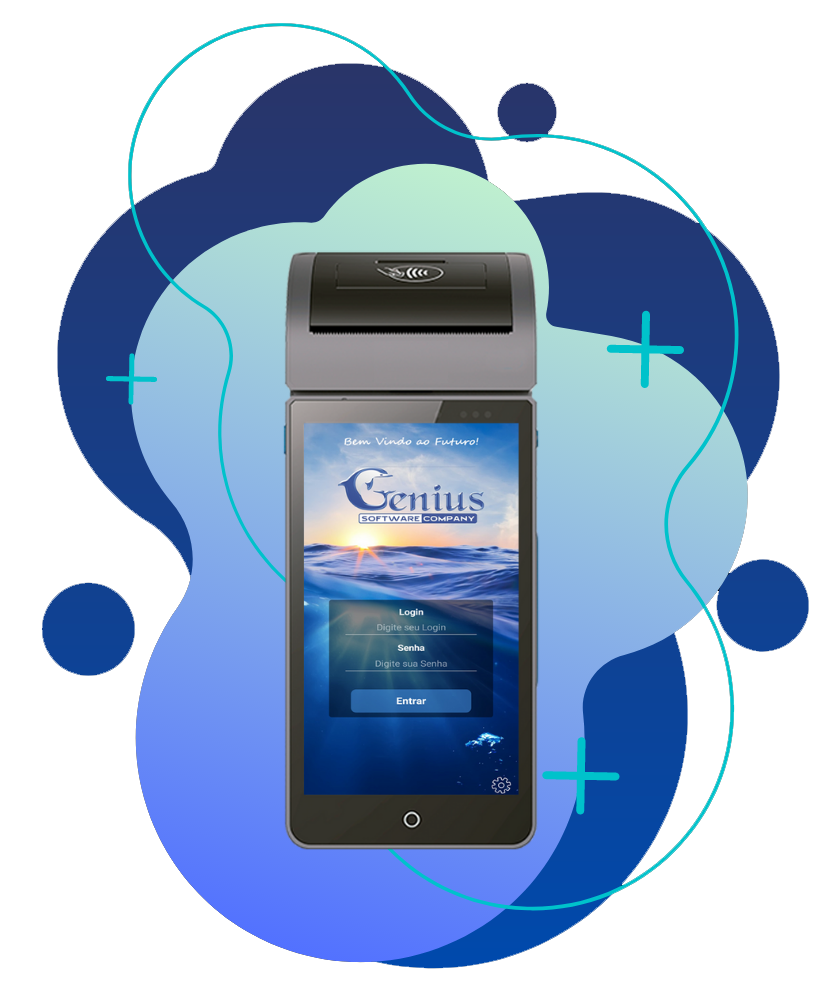
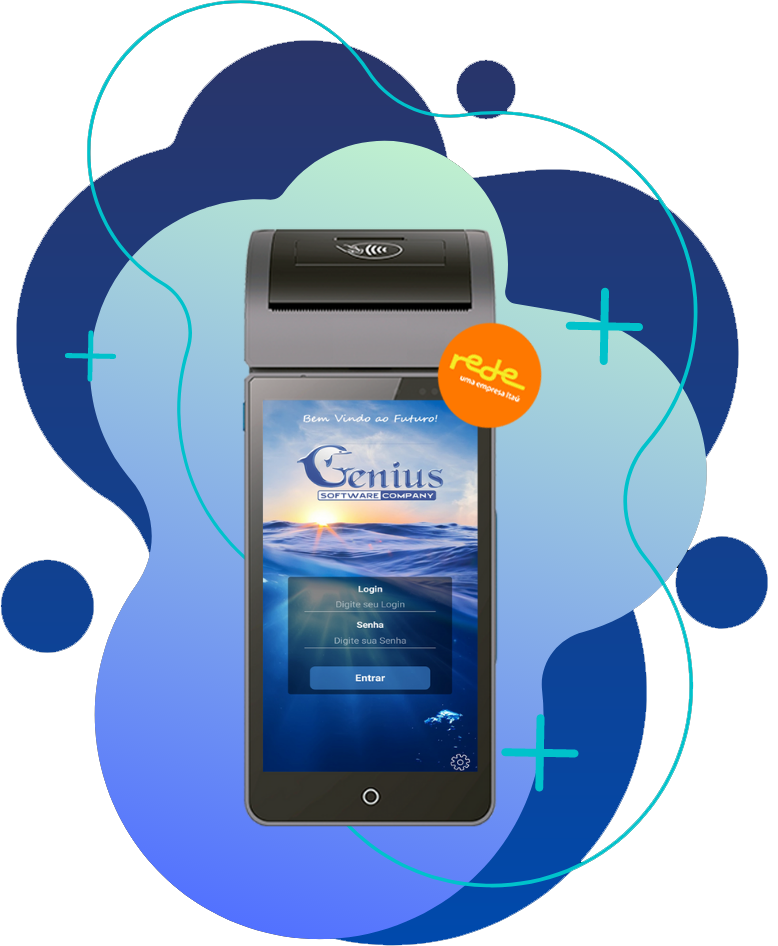
alterações

diff --git a/features.html b/features.html
@@ -63,7 +63,7 @@
                         <div class="col-xl-3 col-lg-3 d-none d-lg-block">
                             <div class="Appointment">
                                 <div class="book_btn d-none d-lg-block">
-                                    <a  href="#">Teste Grátis</a>
+                                    <a  href="#">Entre em contato</a>
                                 </div>
                             </div>
                         </div>  
@@ -105,7 +105,7 @@
                                        e precisas sobre sua empresa.
                                     </p>
                                     <div class="about_btn">
-                                        <a class="boxed-btn4" href="#">Teste Grátis</a>
+                                        <a class="boxed-btn4" href="#">Entre em Contato</a>
                                     </div>
                                 </div>
                             </div>
@@ -134,7 +134,7 @@
                                     </ul>
             
                                     <div class="about_btn wow fadeInUp" data-wow-duration=".10s" data-wow-delay=".8s" >
-                                        <a class="boxed-btn4" href="#">Teste Grátis</a>
+                                        <a class="boxed-btn4" href="#">Entre em Contato</a>
                                     </div>
                                 </div>
                             </div>
@@ -150,7 +150,7 @@
                                 <p>Contagem de estoque de maneira muito mais prática e rápida 100% automatica, tenha uma visão ampla de seus produtos
                                    quantidade de vendas e muito mais.</p>
                                 <div class="about_btn">
-                                    <a class="boxed-btn4" href="#">Teste Grátis</a>
+                                    <a class="boxed-btn4" href="#">Entre em Contato</a>
                                 </div>
                             </div>
                         </div>
@@ -190,22 +190,22 @@
                     <div class="col-lg-4 col-md-4">
                         <div class="single_service  wow fadeInUp" data-wow-duration=".5s" data-wow-delay=".3s">
                             <span>01</span>
-                            <h3>Faça  teste grátis</h3>
-                            <p>A genius pensa em você, e damos a oportunidade de você testar o nosso sistema de forma gratuita, sua satisfação e adaptação é importante para nós :)</p>
+                            <h3>Controle de tudo</h3>
+                            <p>Controle os princinpais movimentos de sua empresa, vendas, estoque e tudo mais. </p>
                         </div>
                     </div>
                     <div class="col-lg-4 col-md-4">
                         <div class="single_service  wow fadeInUp" data-wow-duration=".6s" data-wow-delay=".4s">
                             <span>02</span>
-                            <h3>Em qualquer lugar</h3>
-                            <p>Do home office ao escritório, trabalhe de onde estiver, ter o controle da sua empresa nunca foi tão facil.</p>
+                            <h3>Segurança</h3>
+                            <p>Nosso sistema é seguro e versátio ao uso de mais de um usuario atraves de senhas de segurança, ter o controle da sua empresa nunca foi tão facil.</p>
                         </div>
                     </div>
                     <div class="col-lg-4 col-md-4  wow fadeInUp" data-wow-duration=".7s" data-wow-delay=".5s">
                         <div class="single_service">
                             <span>03</span>
                             <h3>Relatórios com dados reais e precisos</h3>
-                            <p>A integração de todos os módulos automatiza relatórios para mostrar situação de todas as partes da gestão da empresa</p>
+                            <p>A integração de todos os módulos automatiza relatórios para mostrar situação de todas as partes da empresa.</p>
                         </div>
                     </div>
                 </div>
@@ -225,7 +225,7 @@
                 </div>
                 <div class="col-lg-4 col-md-5">
                     <div class="loan_btn wow fadeInUp" data-wow-duration="1.2s" data-wow-delay=".4s">
-                        <a class="boxed-btn3" href="apply.html">Teste Grátis</a>
+                        <a class="boxed-btn3" href="">Entre em Contato</a>
                     </div>
                 </div>
             </div>
@@ -286,7 +286,7 @@
                             <ul>
                                 <li><a href="#">Suporte </a></li>
                                 <li><a href="#">Planos</a></li>
-                                <li><a href="contact.html">Contato</a></li>
+                                <li><a href="contact.html">Contate a Genius</a></li>
                                 <li><a href="#">Parcerias </a></li>
                             </ul>
     

diff --git a/index.html b/index.html
@@ -148,8 +148,7 @@
                         <div class="col-xl-7 col-md-6">
                             <div class="slider_text">
                                 <h3 class="wow fadeInDown" data-wow-duration="1s" data-wow-delay=".1s"> <br><!--<img src="img/fontegenius.png" width="450" height="150" alt="">--></h3>
-                                <p class="wow fadeInLeft" data-wow-duration="1s" data-wow-delay=".1s">O Sistema de
-                                 gestão empresarial <br> completo para a sua empresa</p>
+                                <p class="wow fadeInLeft" data-wow-duration="1s" data-wow-delay=".1s">Bem vindo a mais moderna <br> tecnologia disponível no mercado.</p>
                                 <div class="video_service_btn wow fadeInLeft" data-wow-duration="1s"
                                     data-wow-delay=".1s">
                                     <a href="redcontact.html" class="boxed-btn3">ENTRE EM CONTATO</a>
@@ -168,17 +167,24 @@
     </header>
     <!-- slider_area_end -->
     <!-- service_area  -->
+    
      <div class="container">
             <div class="features_area ">
                 <div class="features_main_wrap">
                     <div class="row  align-items-center">
-                        <div class="col-xl-5 col-lg-5 col-md-6">
-                            <div class="features_info2">
-                                <h3>Genius Poynt</h3>
-                                <p> Associada a tecnologia do Smart Rede, o aplicativo Genius Poynt, 
-                                    testado e aprovado pela Rede, permite o acompanhamento das transações 
-                                    e geração de relatórios para otimização do negócio.</p>
-                                <div class="about_btn">
+                        <div class="col-xl-6 col-lg-6 col-md-6">
+                            <div class="features_info">
+                                <h3 class="wow fadeInUp" data-wow-duration=".5s" data-wow-delay=".3s">Genius Poynt</h3>
+                                <p class="wow fadeInUp" data-wow-duration=".6s" data-wow-delay=".4s">Genius Poynt em parceiria com a Rede disponibiliza pra sua empresa uma maquina de cartão de crédito mais software de Gestão Empresarial com: </p> 
+                            
+                                <ul>
+                                    <li class="wow fadeInUp" data-wow-duration=".7s" data-wow-delay=".5s" > Lançamento da venda; </li>
+                                    <li class="wow fadeInUp" data-wow-duration=".8s" data-wow-delay=".6s" > Vadastro de cliente; </li>
+                                    <li class="wow fadeInUp" data-wow-duration=".9s" data-wow-delay=".7s" > Geração de NFce; </li>
+                                    <li class="wow fadeInUp" data-wow-duration=".10s" data-wow-delay=".8s" > Fechamento de caixa; </li>
+                                    <li class="wow fadeInUp" data-wow-duration=".11s" data-wow-delay=".9s" > Relatórios e muito mais... </li>
+                                </ul>
+                                <div class="about_btn wow fadeInUp" data-wow-duration=".10s" data-wow-delay=".10s">
                                     <a class="boxed-btn4" href="redcontact.html">ENTRE EM CONTATO</a>
                                 </div>
                             </div>
